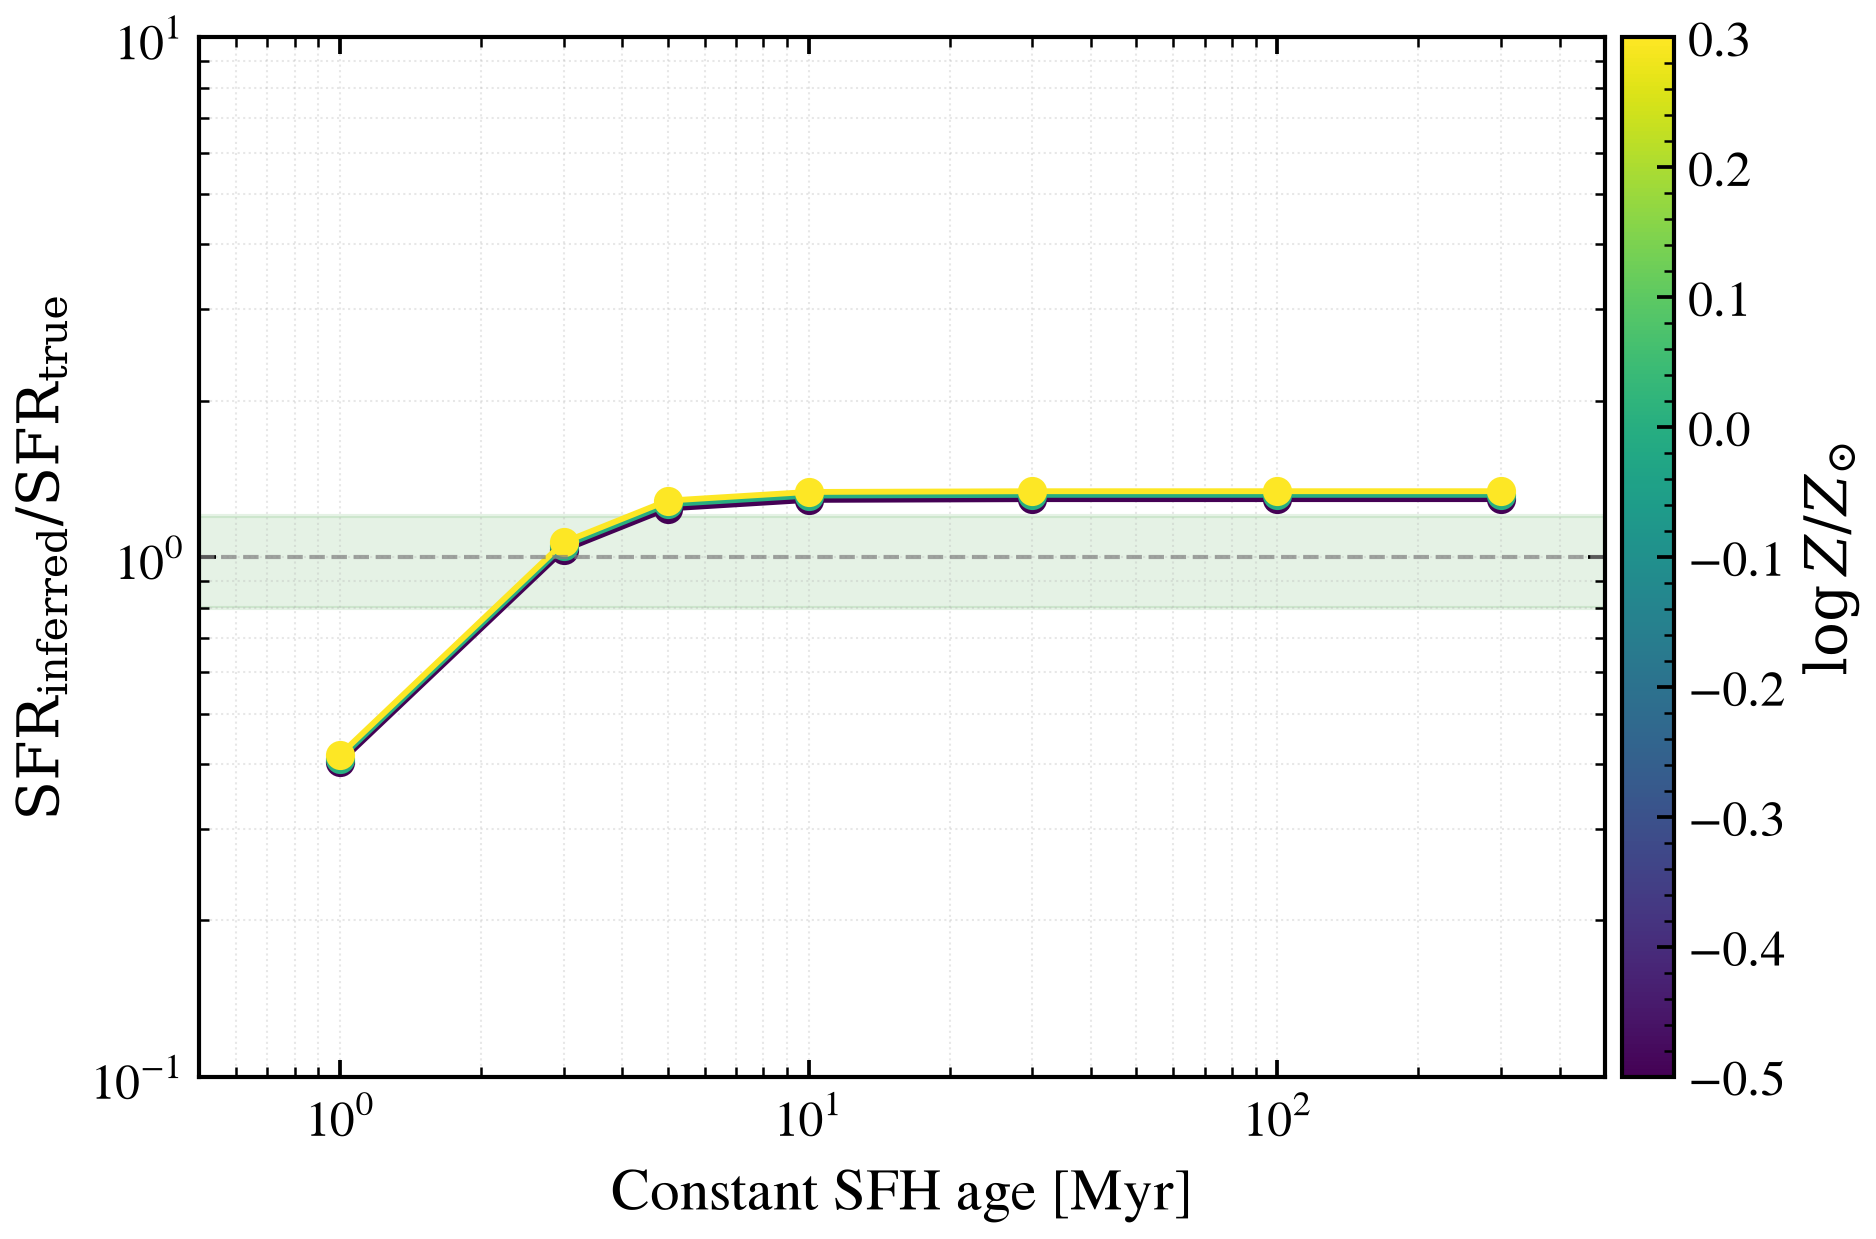
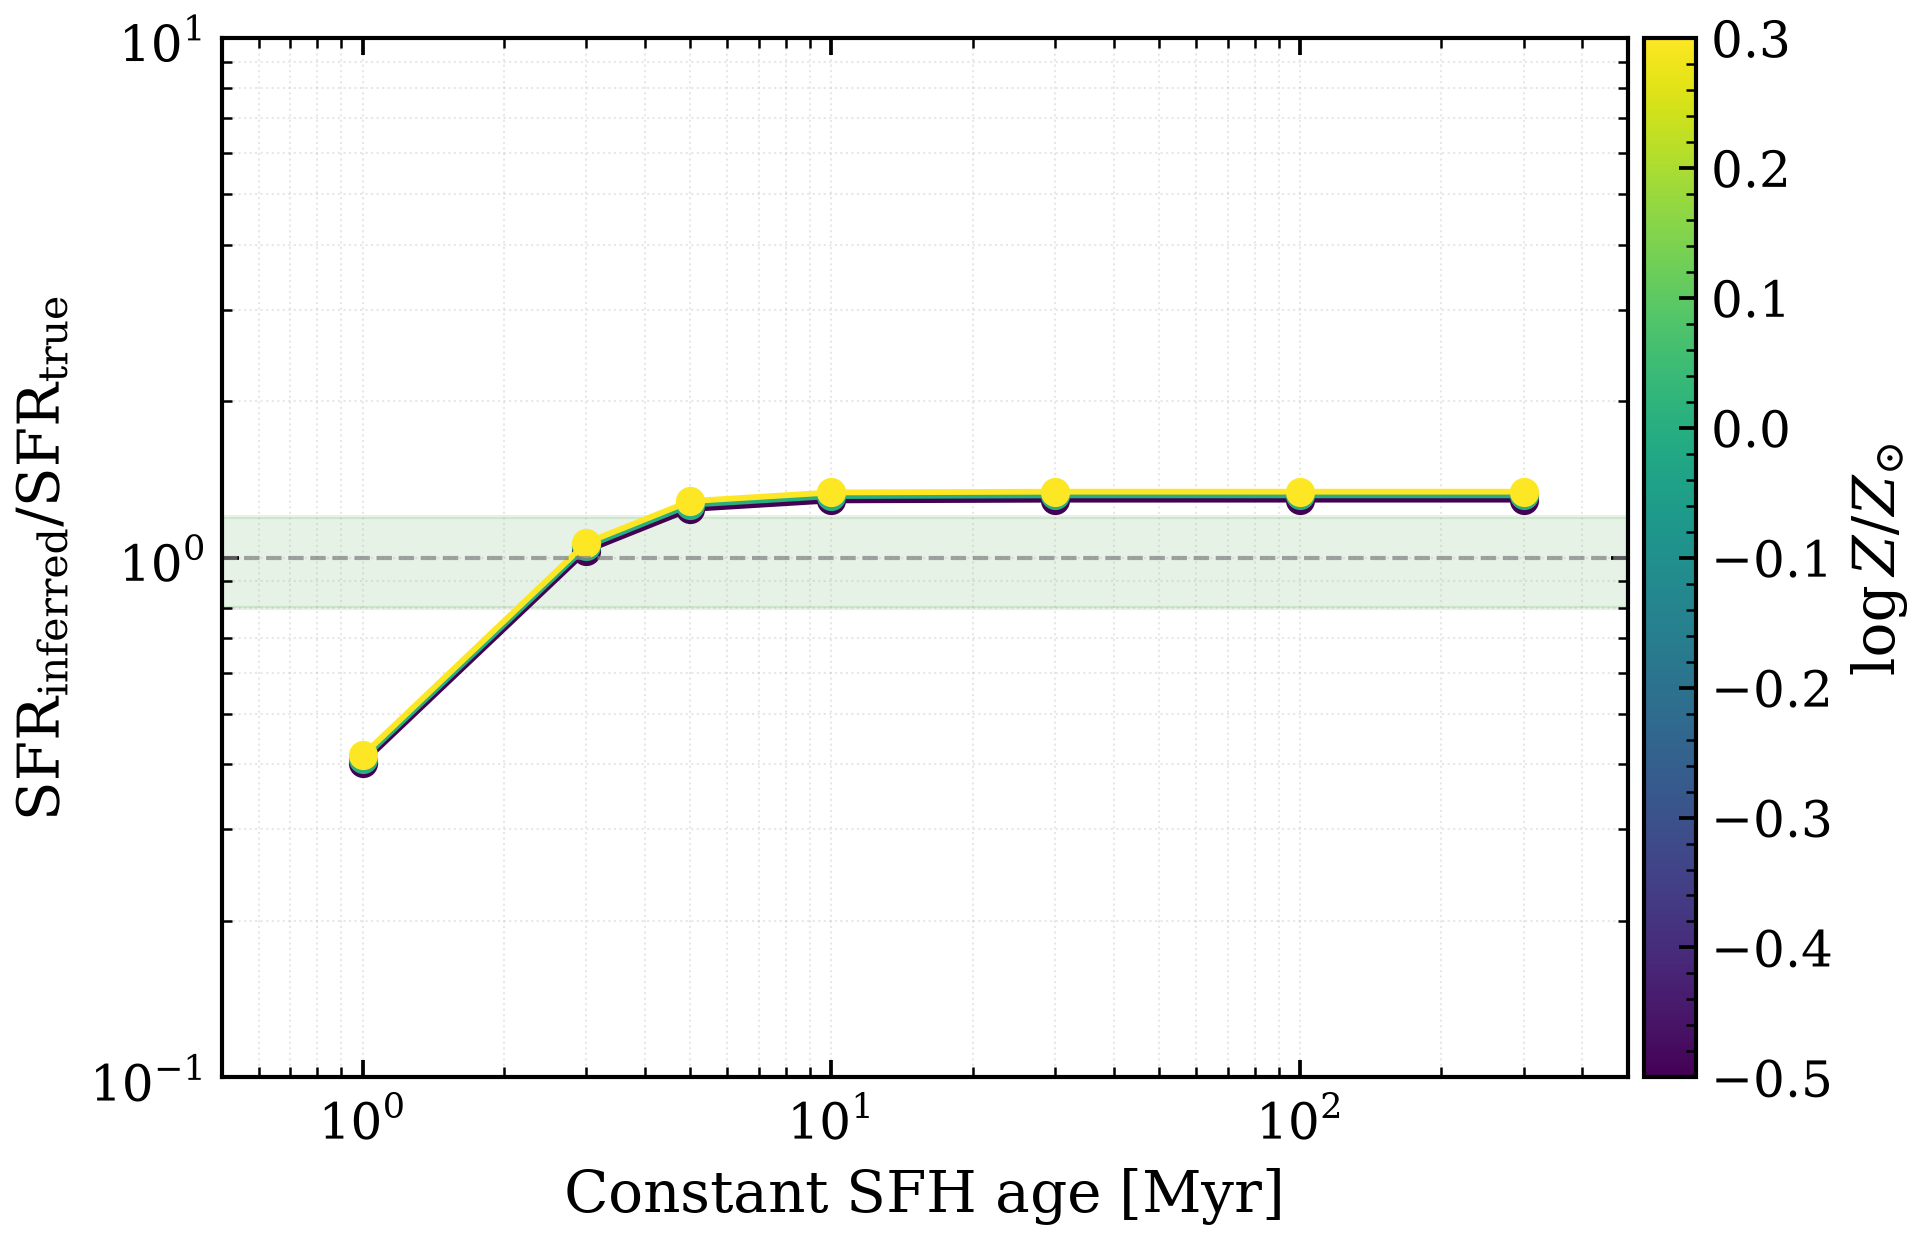
docs(gallery): re-render plot_halpha_sfr_calibration_age for the Lsun line units (#1206)
tools/regen_gallery.py plot_halpha_sfr_calibration_age; the freshness gate
refused the stale render after the example was updated to multiply by L_sun
before the erg/s Murphy+2011 calibration. The Cue power-law fit's numpy
RuntimeWarnings in the captured output are pre-existing on main (the same
lines appear in four other committed renders).

diff --git a/docs/auto_examples/nebular/plot_halpha_sfr_calibration_age.py b/docs/auto_examples/nebular/plot_halpha_sfr_calibration_age.py
@@ -24,6 +24,7 @@ import numpy as np
 
 import tengri
 from tengri.plot import setup_style
+from tengri.utils.physics_constants import L_SUN
 
 setup_style()
 warnings.filterwarnings("ignore", message=".*BakedInBackend.*")
@@ -31,6 +32,7 @@ warnings.filterwarnings("ignore", message=".*deprecated.*")
 
 ssp = tengri.load_ssp("fsps_prsc_miles_chabrier")
 log_sfr_true, sfr_true = 1.0, 10.0
+# Murphy+2011: SFR = murphy_const * L(Halpha) with L(Halpha) in erg/s.
 murphy_const = 5.37e-42
 ages_myr = np.array([1.0, 3.0, 5.0, 10.0, 30.0, 100.0, 300.0])
 met_logzsol = np.array([-0.5, 0.0, 0.3])
@@ -64,8 +66,10 @@ for met in met_logzsol:
             redshift=tengri.Fixed(0.0),
         )
         params = dict(model.spec.sample(jax.random.PRNGKey(0)))
-        l_halpha = float(model.predict(params).lines.halpha)
-        sfr_inferred.append(murphy_const * l_halpha)
+        # pred.lines.halpha is Lsun (#1206, breaking, no alias); the Murphy+2011
+        # calibration above is erg/s, so convert before applying it.
+        l_halpha_erg_s = float(model.predict(params).lines.halpha) * L_SUN
+        sfr_inferred.append(murphy_const * l_halpha_erg_s)
         ages_valid.append(age_myr)
 
     ratio = np.array(sfr_inferred) / sfr_true

diff --git a/docs/auto_examples/nebular/plot_halpha_sfr_calibration_age.rst b/docs/auto_examples/nebular/plot_halpha_sfr_calibration_age.rst
@@ -29,7 +29,7 @@ show the calibration validity range is weakly sensitive to Z: higher Z
 reduces ionizing photon production, compressing the valid age window slightly
 toward older ages.
 
-.. GENERATED FROM PYTHON SOURCE LINES 13-87
+.. GENERATED FROM PYTHON SOURCE LINES 13-91
 
 
 
@@ -39,8 +39,25 @@ toward older ages.
    :class: sphx-glr-single-img
 
 
+.. rst-class:: sphx-glr-script-out
+
+ .. code-block:: none
+
+    /tengri/src/tengri/components/nebular/ionizing_spectrum.py:308: RuntimeWarning: invalid value encountered in scalar divide
+      log_Q_pred = b - _LOG_H + np.log10(np.abs((x_max_alpha - x_min_alpha) / alpha))
+    /tengri/src/tengri/components/nebular/ionizing_spectrum.py:320: RuntimeWarning: invalid value encountered in scalar divide
+      term_Q = b + np.log10(np.abs(denom / alpha)) - log_Q - _LOG_H
+    /tengri/src/tengri/components/nebular/ionizing_spectrum.py:322: RuntimeWarning: divide by zero encountered in scalar divide
+      d_logQ_dα = (x_max_alpha * ln_xmax - x_min_alpha * ln_xmin) / denom - 1.0 / alpha
+    /tengri/src/tengri/components/nebular/ionizing_spectrum.py:322: RuntimeWarning: invalid value encountered in scalar subtract
+      d_logQ_dα = (x_max_alpha * ln_xmax - x_min_alpha * ln_xmin) / denom - 1.0 / alpha
 
 
+
+
+
+
+|
 
 .. code-block:: Python
 
@@ -58,6 +75,7 @@ toward older ages.
 
     import tengri
     from tengri.plot import setup_style
+    from tengri.utils.physics_constants import L_SUN
 
     setup_style()
     warnings.filterwarnings("ignore", message=".*BakedInBackend.*")
@@ -65,6 +83,7 @@ toward older ages.
 
     ssp = tengri.load_ssp("fsps_prsc_miles_chabrier")
     log_sfr_true, sfr_true = 1.0, 10.0
+    # Murphy+2011: SFR = murphy_const * L(Halpha) with L(Halpha) in erg/s.
     murphy_const = 5.37e-42
     ages_myr = np.array([1.0, 3.0, 5.0, 10.0, 30.0, 100.0, 300.0])
     met_logzsol = np.array([-0.5, 0.0, 0.3])
@@ -98,8 +117,10 @@ toward older ages.
                 redshift=tengri.Fixed(0.0),
             )
             params = dict(model.spec.sample(jax.random.PRNGKey(0)))
-            l_halpha = float(model.predict(params).lines.halpha)
-            sfr_inferred.append(murphy_const * l_halpha)
+            # pred.lines.halpha is Lsun (#1206, breaking, no alias); the Murphy+2011
+            # calibration above is erg/s, so convert before applying it.
+            l_halpha_erg_s = float(model.predict(params).lines.halpha) * L_SUN
+            sfr_inferred.append(murphy_const * l_halpha_erg_s)
             ages_valid.append(age_myr)
 
         ratio = np.array(sfr_inferred) / sfr_true
@@ -122,7 +143,7 @@ toward older ages.
 
 .. rst-class:: sphx-glr-timing
 
-   **Total running time of the script:** (0 minutes 3.140 seconds)
+   **Total running time of the script:** (0 minutes 26.564 seconds)
 
 
 .. _sphx_glr_download_auto_examples_nebular_plot_halpha_sfr_calibration_age.py:
